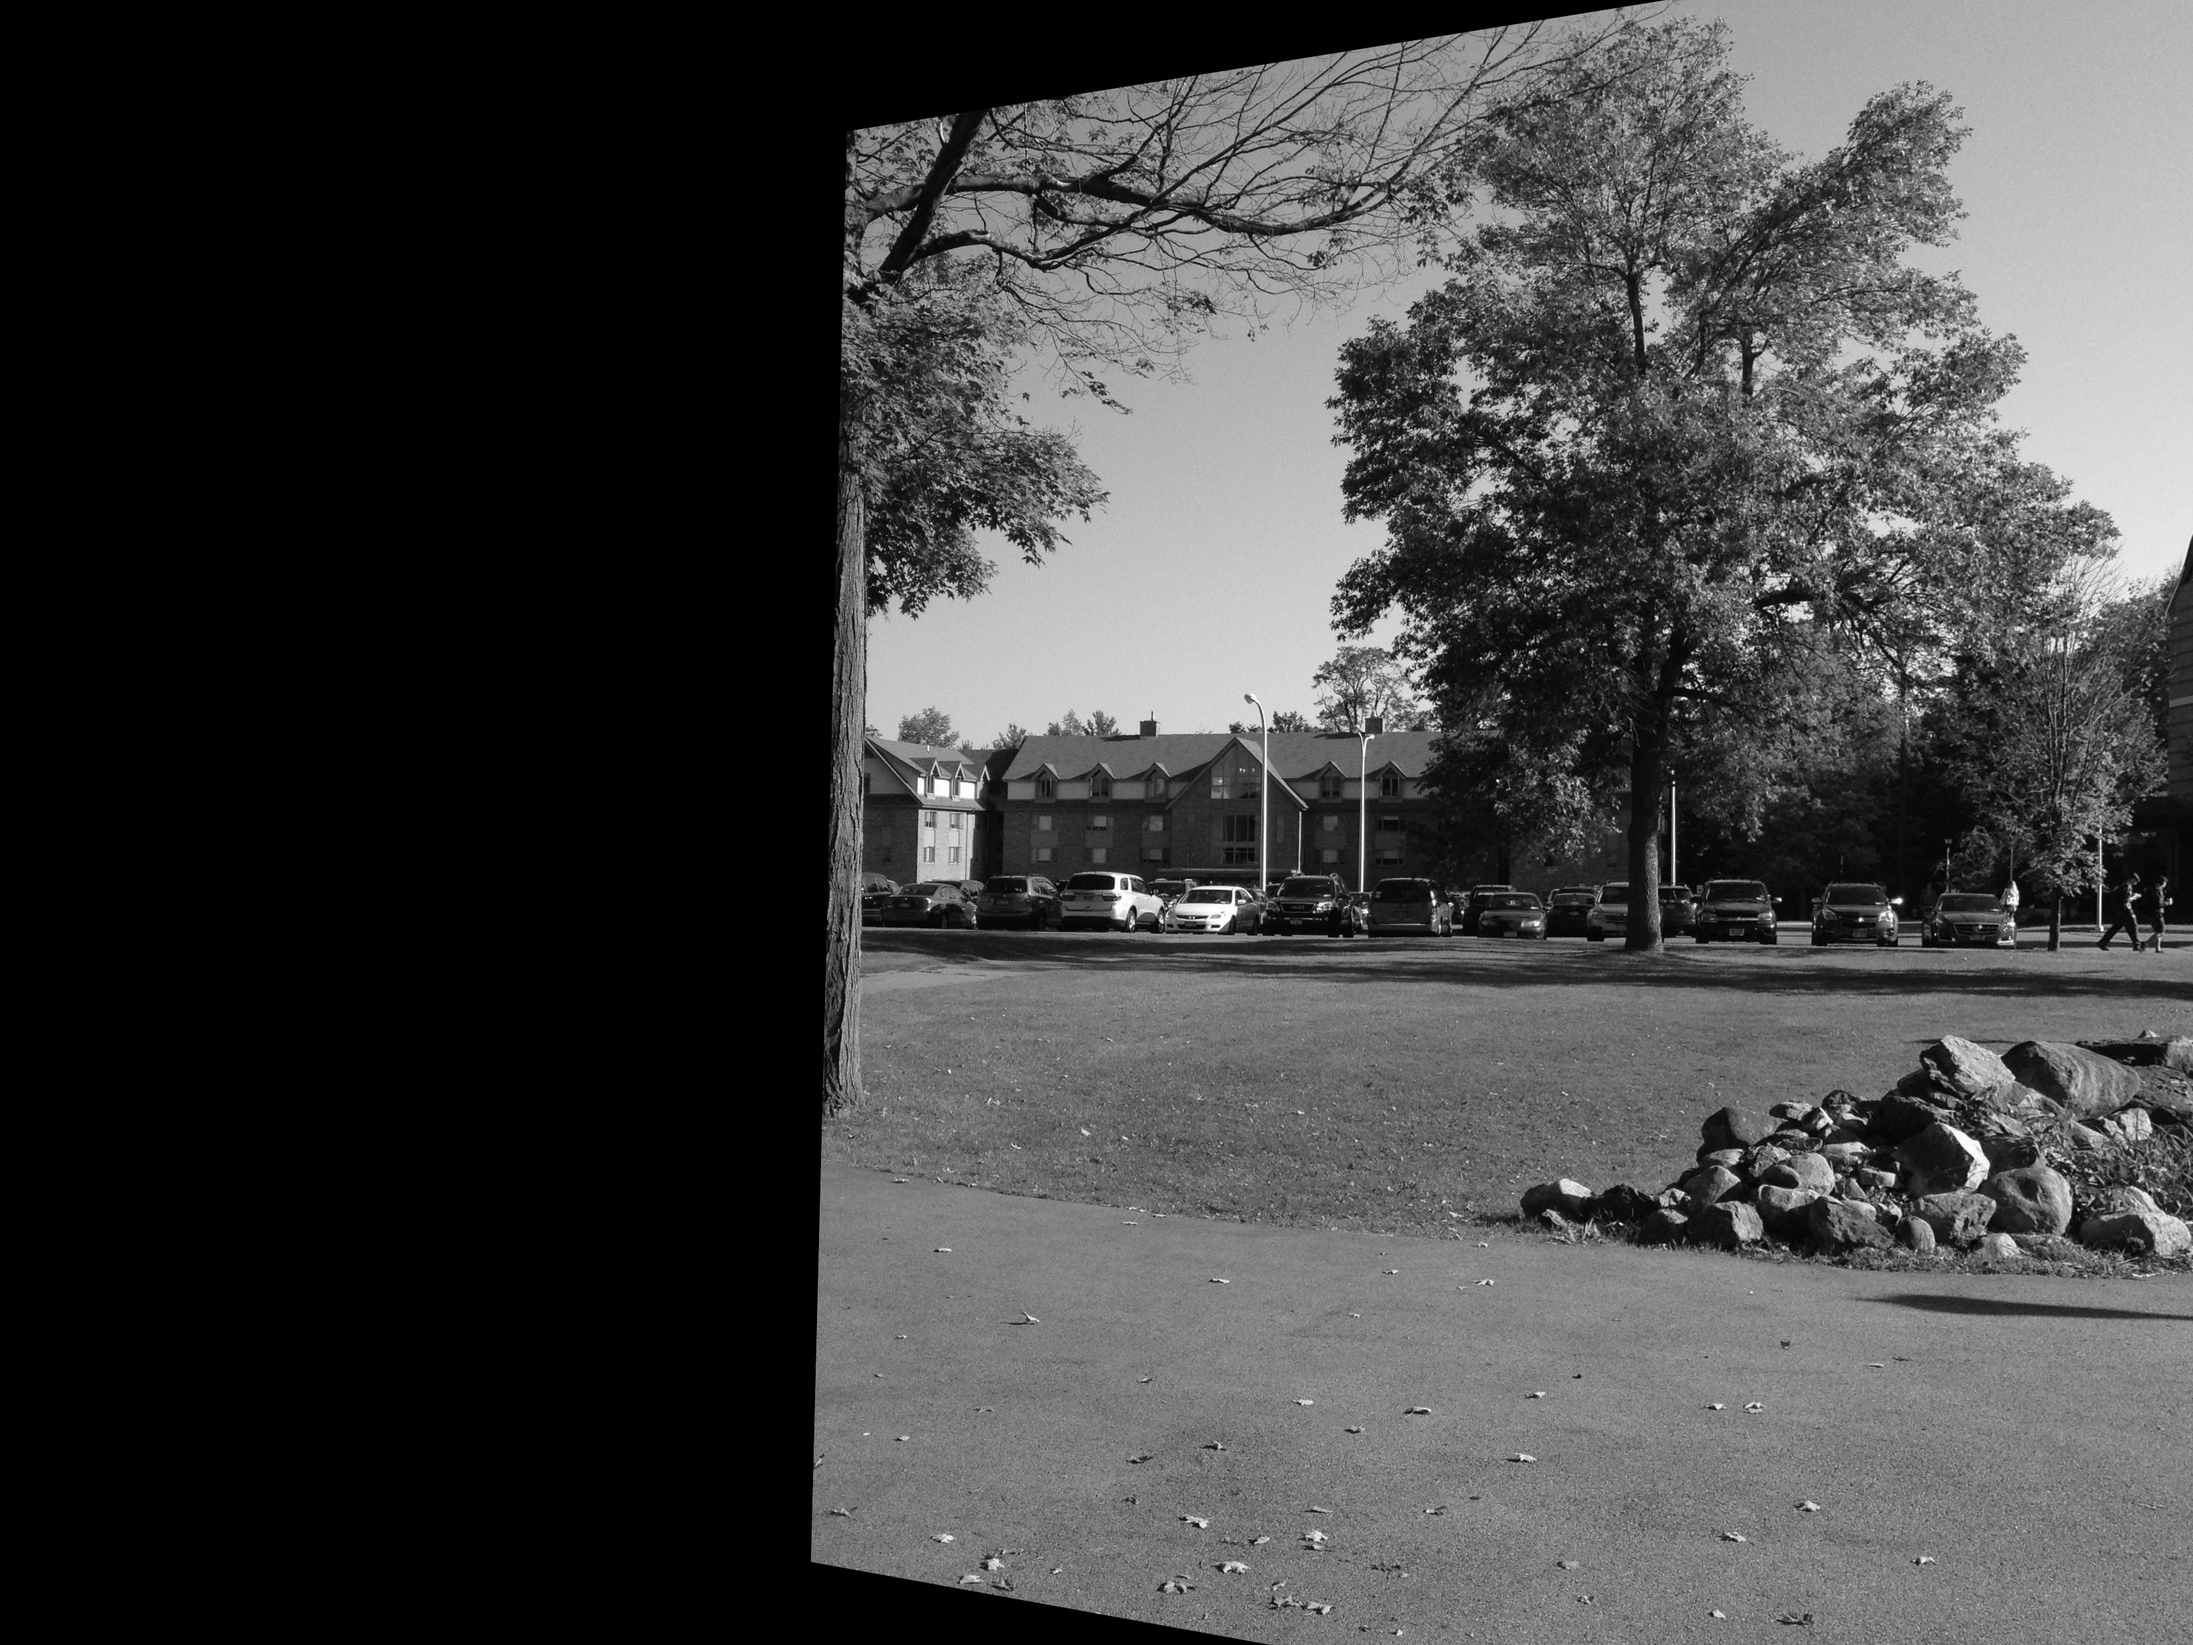
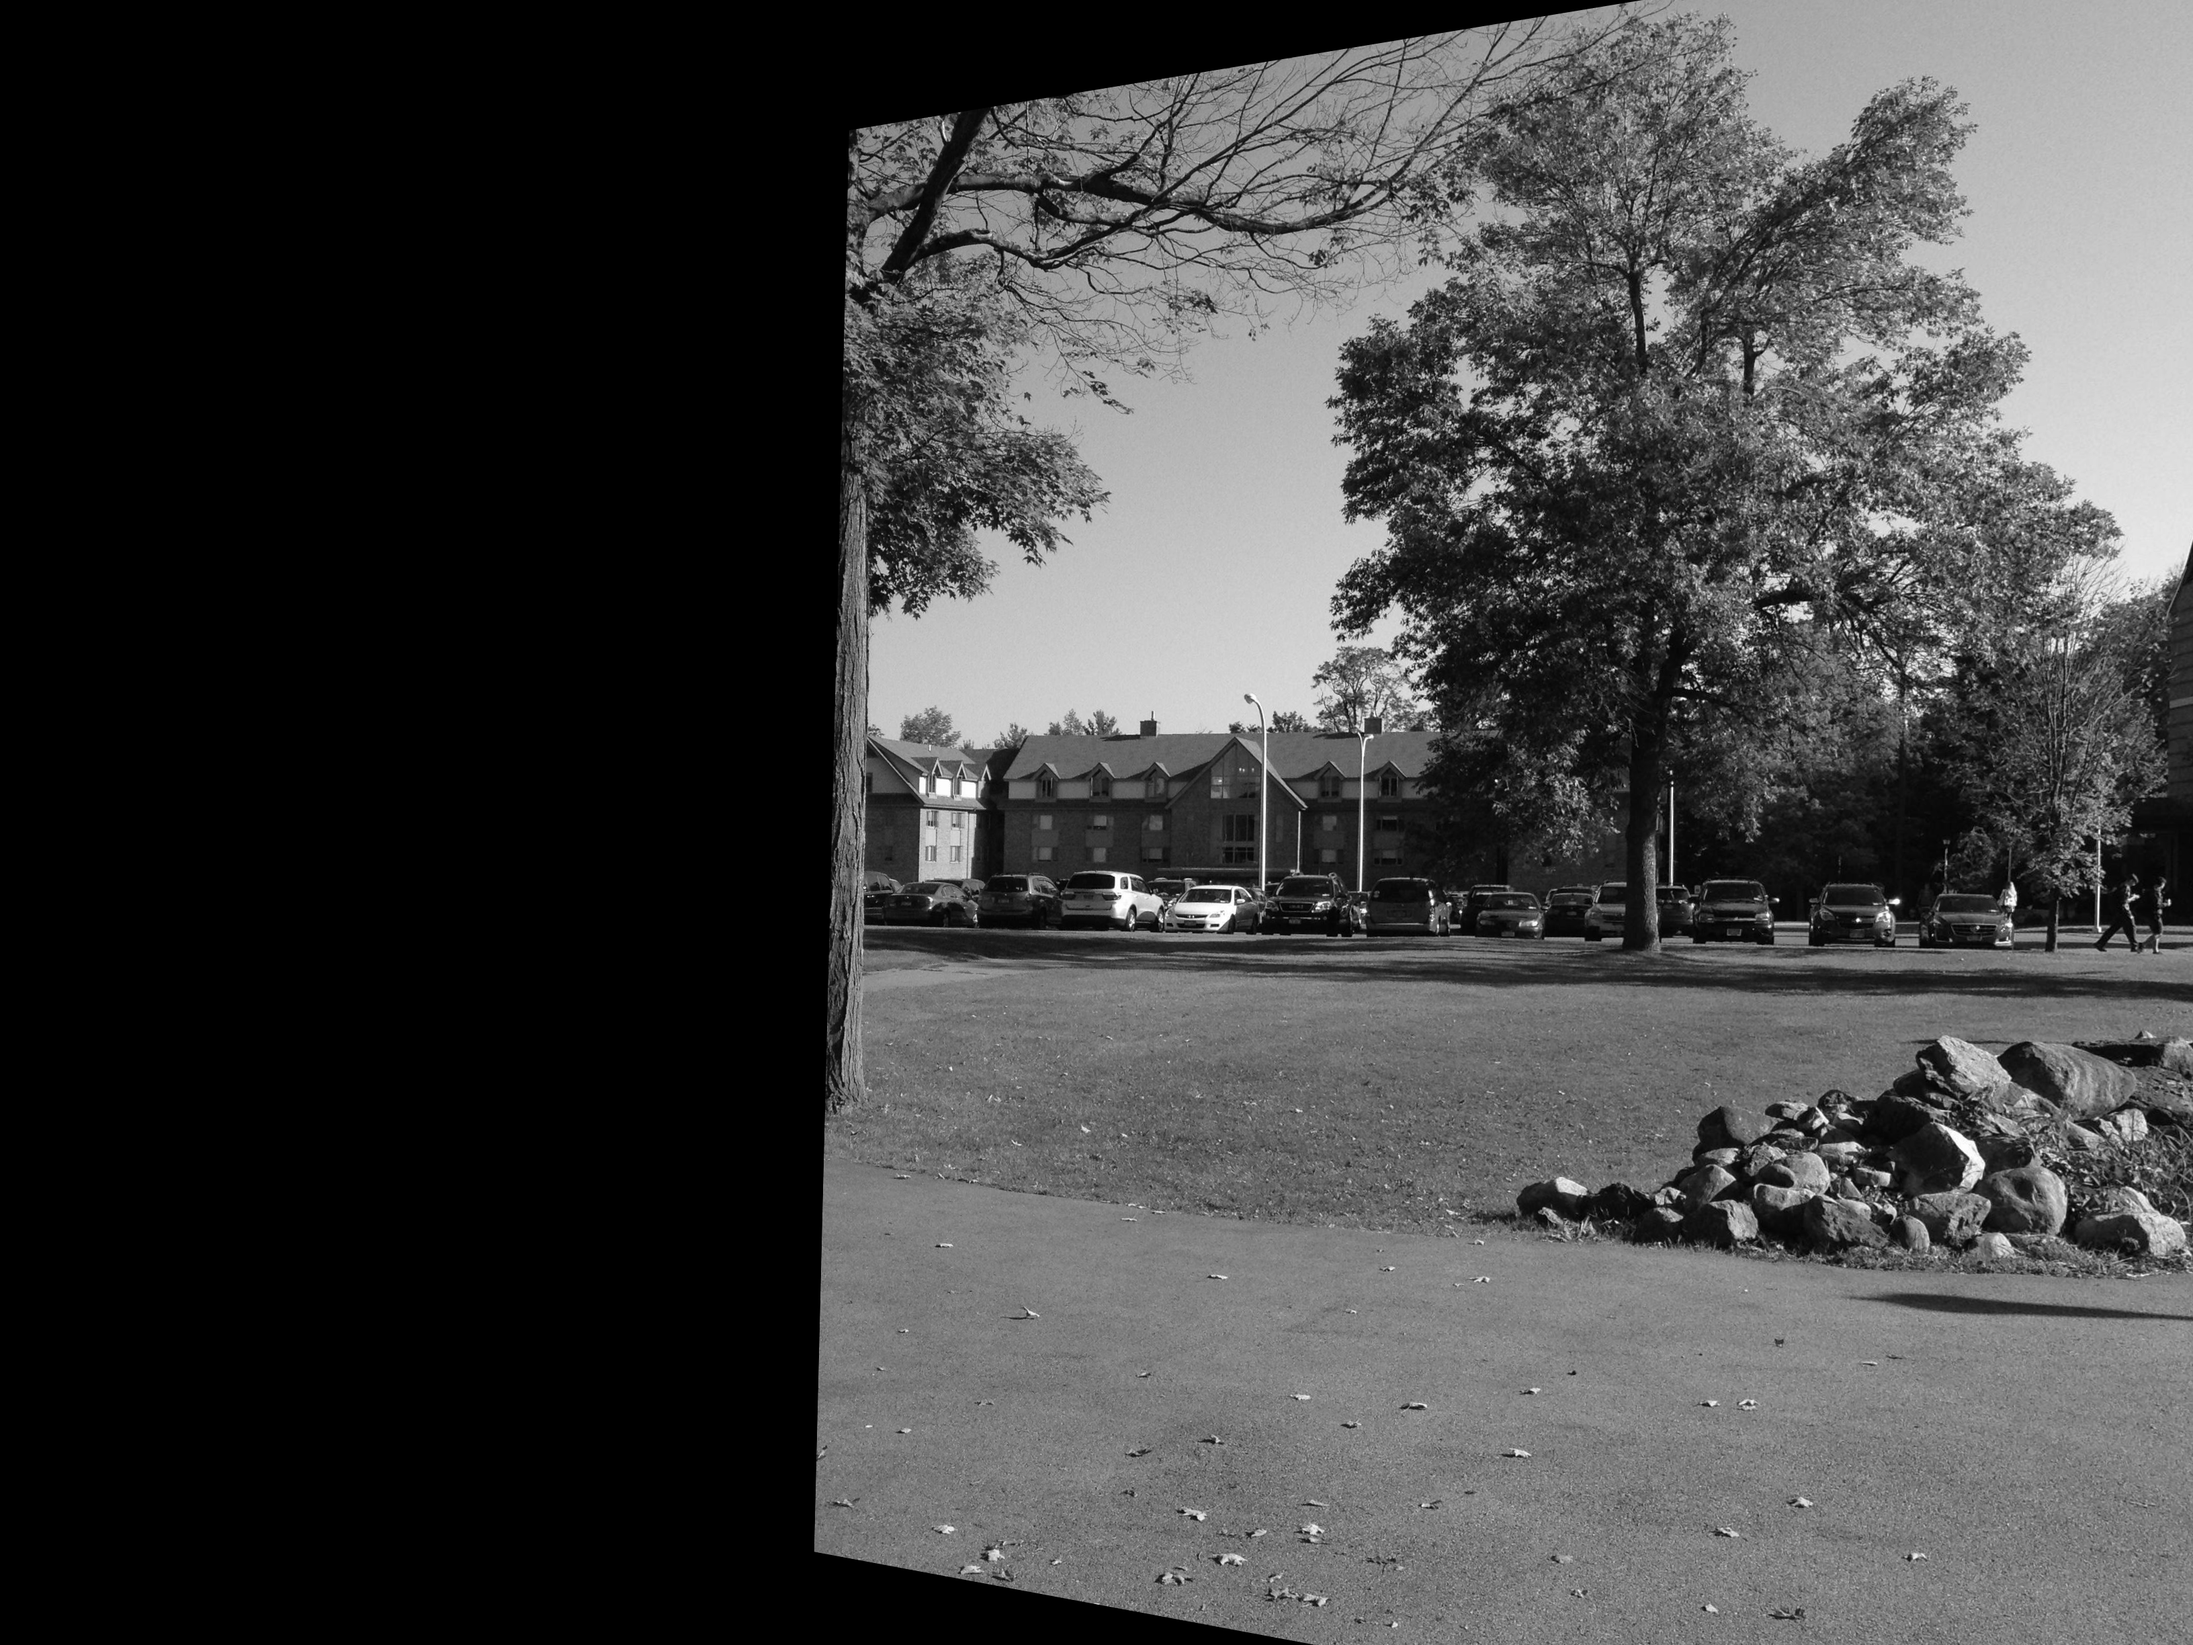
more pana tests

Changed region(s): [[0.375, 0.0, 1.0, 0.7761], [0.375, 0.8382, 1.0, 1.0]]

diff --git a/HW_3/panorama.py b/HW_3/panorama.py
@@ -100,48 +100,6 @@ def getCorrespondences(im1, im2):
     im2_points = np.array(im2_points)
     return im1_points, im2_points
 
-# def getCorrespondences(im1, im2):
-#     # Initiate SIFT detector
-#     sift = cv2.xfeatures2d.SIFT_create(nfeatures=10000)
-
-#     # find the keypoints and descriptors with SIFT
-#     kp1, desc1 = sift.detectAndCompute(im1, None)
-#     kp2, desc2 = sift.detectAndCompute(im2, None)
-
-#     # Draw keypoints on both images
-#     im1 = cv2.drawKeypoints(im1, kp1, None)
-#     im2 = cv2.drawKeypoints(im2, kp2, None)
-
-#     # Match descriptors from both images
-#     bf = cv2.BFMatcher(cv2.NORM_L2, crossCheck=True)
-#     matches = bf.match(desc1, desc2)
-
-#     # Extract objects for the matched points and convert them to coordinates
-#     im1_points = []
-#     im2_points = []
-#     for match in matches:
-#         im1_points.append(kp1[match.queryIdx].pt)
-#         im2_points.append(kp2[match.trainIdx].pt)
-
-#     # Draw matches between images
-#     img3 = cv2.drawMatches(im1, kp1, im2, kp2, matches, None)
-
-#     # Display the results
-#     print("Total Keypoints for 1: {}".format(len(kp1)))
-#     print("Total Keypoints for 2: {}".format(len(kp2)))
-
-#     cv2.imwrite("img.jpg", im1)
-#     cv2.imwrite("img2.jpg", im2)
-#     cv2.imwrite("Matches.jpg", img3)
-
-#     # Convert the points objects to coordinates (one row = one point[x,y])
-#     im1_points = np.array(im1_points)
-#     im2_points = np.array(im2_points)
-
-#     return im1_points, im2_points
-
-    
-
 # Write a function, estimateTransform to determine the transform between ‘im1_points’
 # to ‘im2_points’, i.e., to determine the transform between ‘im1’ to ‘im2’. Your function should
 # have the form:
@@ -218,7 +176,9 @@ def getCorrespondences(im1, im2):
 
 
 def estimateTransformRANSAC(pts1, pts2):
-    Nransac = 10000
+    """Estimate the transform between two sets of points using RANSAC"""
+    # RANSAC is Ra
+    Nransac = 1000
     th = 5
     k = 4
     n = pts1.shape[0]
@@ -232,19 +192,15 @@ def estimateTransformRANSAC(pts1, pts2):
         print('Error: Input arrays must have at least {} data points'.format(k))
         return None
 
-    keepmax = None
+    keepmax = None # indices of the points that agree with the model
 
-    for ir in range(Nransac):
+    for ir in range(Nransac): # for each RANSAC iteration
         idx = np.random.choice(n, size=k, replace=False)
         pts1s = pts1[idx, :] # select k points from pts1
         pts2s = pts2[idx, :]
 
         H = estimateTransform(pts1s, pts2s)
 
-        # pts1estim_h = np.hstack((pts1, np.ones((n, 1)))) @ H.T # homogenous coordinates
-        # shape of pts1
-
-        #python
         ones = np.ones((n, 1))
         print('pts1 shape:', pts1.shape)
         pts1_h = np.hstack((pts1,ones)) # homogenous coordinates
@@ -256,9 +212,6 @@ def estimateTransformRANSAC(pts1, pts2):
         pts2estim = pts2estim_h[:, :2] / pts2estim_h[:, 2:]
         # make all pts2estim values positive
         pts2estim = np.absolute(pts2estim)
-        
-        # transpose the pts2estim matrix
-        #pts2estim = pts2estim.T
 
         # shapes
         print('n:', n)
@@ -273,23 +226,21 @@ def estimateTransformRANSAC(pts1, pts2):
         d = np.sum((pts2estim - pts2)**2, axis=1) # euclidean distance
 
         keep = np.where(d < th)[0]
-        # print('keep:', keep)
         nkeep = len(keep)
-        # print("length: ",len(keep))
 
-        if nkeep > nkeepmax:
-            nkeepmax = nkeep
-            Hkeepmax = H
-            keepmax = keep
+        if nkeep > nkeepmax: # if we have more inliers than before, update the best model
+            nkeepmax = nkeep # update the number of inliers
+            Hkeepmax = H # keep the best model
+            keepmax = keep # keep the indices of the inliers
 
-    if keepmax is None:
+    if keepmax is None: # if we didn't find any inliers
         print('Error: RANSAC failed to find a suitable transform')
         return None
 
-    pts1keep = pts1[keepmax,:]
-    pts2keep = pts2[keepmax,:]
+    pts1keep = pts1[keepmax,:] # keep the inliers
+    pts2keep = pts2[keepmax,:] # keep the inliers
 
-    Hbetter = estimateTransform(pts1keep, pts2keep)
+    Hbetter = estimateTransform(pts1keep, pts2keep) # perform a final least squares solve on the inliers
 
     return Hbetter
 
@@ -339,7 +290,6 @@ def estimateTransform(pts1, pts2):
     eigenvalues, eigenvectors = np.linalg.eig(PTP) # perform SVD on P by using eigenvalues and eigenvectors
     min_eigenvalue_idx = np.argmin(eigenvalues) # it is important to get the smallest eigenvalue
     q = eigenvectors[:, min_eigenvalue_idx] # q is the last column of V, it is the eigenvector corresponding to the smallest eigenvalue
-    # q /= q[-1] # normalize q by dividing by the last value of q
 
     # rearrange the values of q to get the values in A
     A = np.zeros((3, 3))
@@ -373,17 +323,23 @@ def blendImages(im1, im2, blur_threshold=0.5):
     im1_size = im1.shape
     im2_size = im2.shape
 
-    # create the ramp blur
-    ramp = np.zeros(im1_size)
-    for i in range(im1_size[0]):
-        for j in range(im1_size[1]):
-            if (i < im1_size[0] * blur_threshold):
-                ramp[i, j] = 1
-            else:
-                ramp[i, j] = (im1_size[0] - i) / (im1_size[0] * (1 - blur_threshold))
+    # create the ramp blur along the x axis
+    ramp = np.linspace(0, 1, im1_size[1])
+    # make the blur threshold
+    ramp[ramp > blur_threshold] = 1
+
+    # create the ramp blur along the y axis
+    # ramp = np.tile(ramp, (im1_size[0], 1))
+
+    # create the ramp blur along the x axis
+    ramp2 = np.linspace(1, 0, im2_size[1])
+    # make the blur threshold
+    ramp2[ramp2 > blur_threshold] = 1
+    # create the ramp blur along the y axis
+    # ramp2 = np.tile(ramp2, (im2_size[0], 1))
 
     # blend the images together
-    blended = im1 * ramp + im2 * (1 - ramp)
+    blended = im1 * ramp + im2 * ramp2
 
     return blended
 
@@ -400,11 +356,6 @@ def main():
 
     image1, image2 = setupImages(im1, im2)
     im1_points, im2_points = getCorrespondences(image1, image2)
-    #print("im1_points",im1_points)
-    #print("im2_points",im2_points)
-    # size print
-    print("size of im1_points",im1_points.shape)
-    print("size of im2_points",im2_points.shape)
 
     Hv2 = estimateTransformRANSAC(im1_points, im2_points)
     #inverse of Hv2
@@ -415,25 +366,6 @@ def main():
 
     im4 = blendImages(image1, im3)
     cv2.imwrite('panorama.jpg', im4)
-
-    # size of image1
-    print("size of image1",image1.shape)
-    # size of image2
-    print("size of image2",image2.shape)
-    # size of im3
-    print("size of im3",im3.shape)
-    # make a copy of image1 that is the same size as im3 with black pixels
-    # im4 = np.zeros(im3.shape)
-    # copy image1 into the top left corner of im4
-    # im4[0:image1.shape[0], 0:image1.shape[1]] = image1
-    # write the image to a file
-    # cv2.imwrite('panorama_source1.jpg', im4)
-
-    # blend the images together
-    # im5 = blendImages(image1, im3)
-    # write the image to a file
-    # cv2.imwrite('panorama_final.jpg', im5)
-    
 
 if __name__ == '__main__':
     main()

diff --git a/HW_3/transformImage.py b/HW_3/transformImage.py
@@ -54,13 +54,13 @@ def transformImage(input_image, transform_matrix, transform_type):
     # Interpolate the input image at the mapped coordinates to create the output image
     transformed_image = cv2.remap(input_image, xin.reshape(hout, wout).astype(np.float32), yin.reshape(hout, wout).astype(np.float32), cv2.INTER_LINEAR)
 
-    # create a black image to hold the transformed image at the correct size
-    transformed_black = np.zeros(transformed_image.shape, dtype=np.uint8)
-    # copy the transformed image into the top left part of the black image
-    transformed_black[0:transformed_image.shape[0], 0:transformed_image.shape[1]] = transformed_image
+    # place the transformed image in the center of the output image
+    # output_image = np.zeros((hout, wout), dtype=np.uint8)
+    # transformed_image = transformed_image[int(ymin):int(ymin+hout), int(xmin):int(xmin+wout)]
+    
     # write the image to file
-    cv2.imwrite('transformed_image.png', transformed_black)
+    cv2.imwrite('transformed_image.png', transformed_image)
     # print out the size the transformed image
-    print("transformed image shape: ",transformed_black.shape)
+    print("transformed image shape: ",transformed_image.shape)
 
-    return transformed_black
+    return transformed_image
